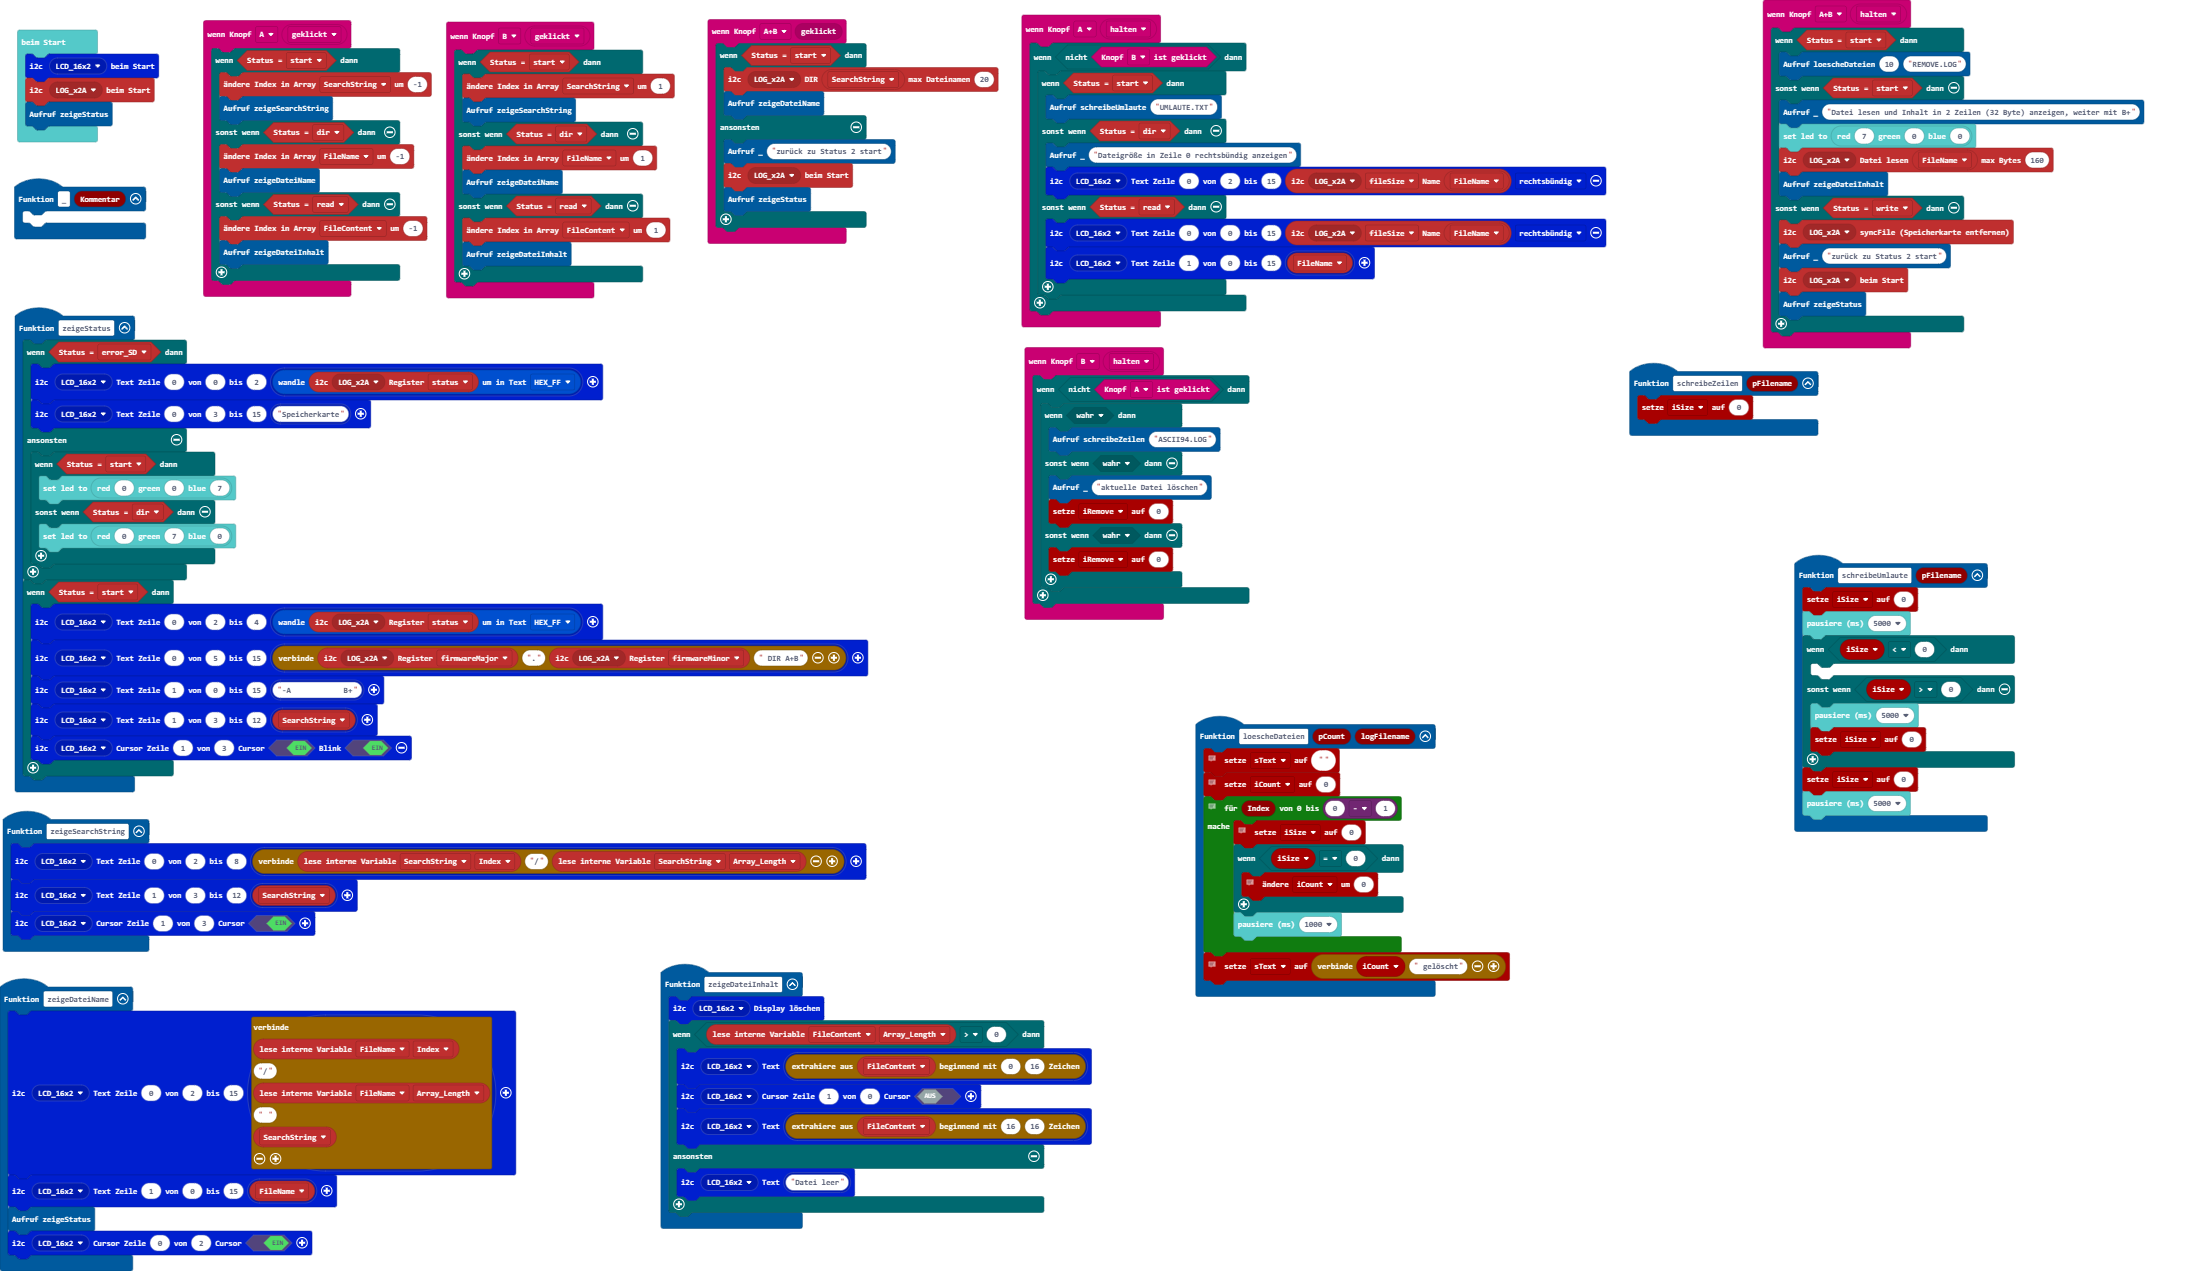
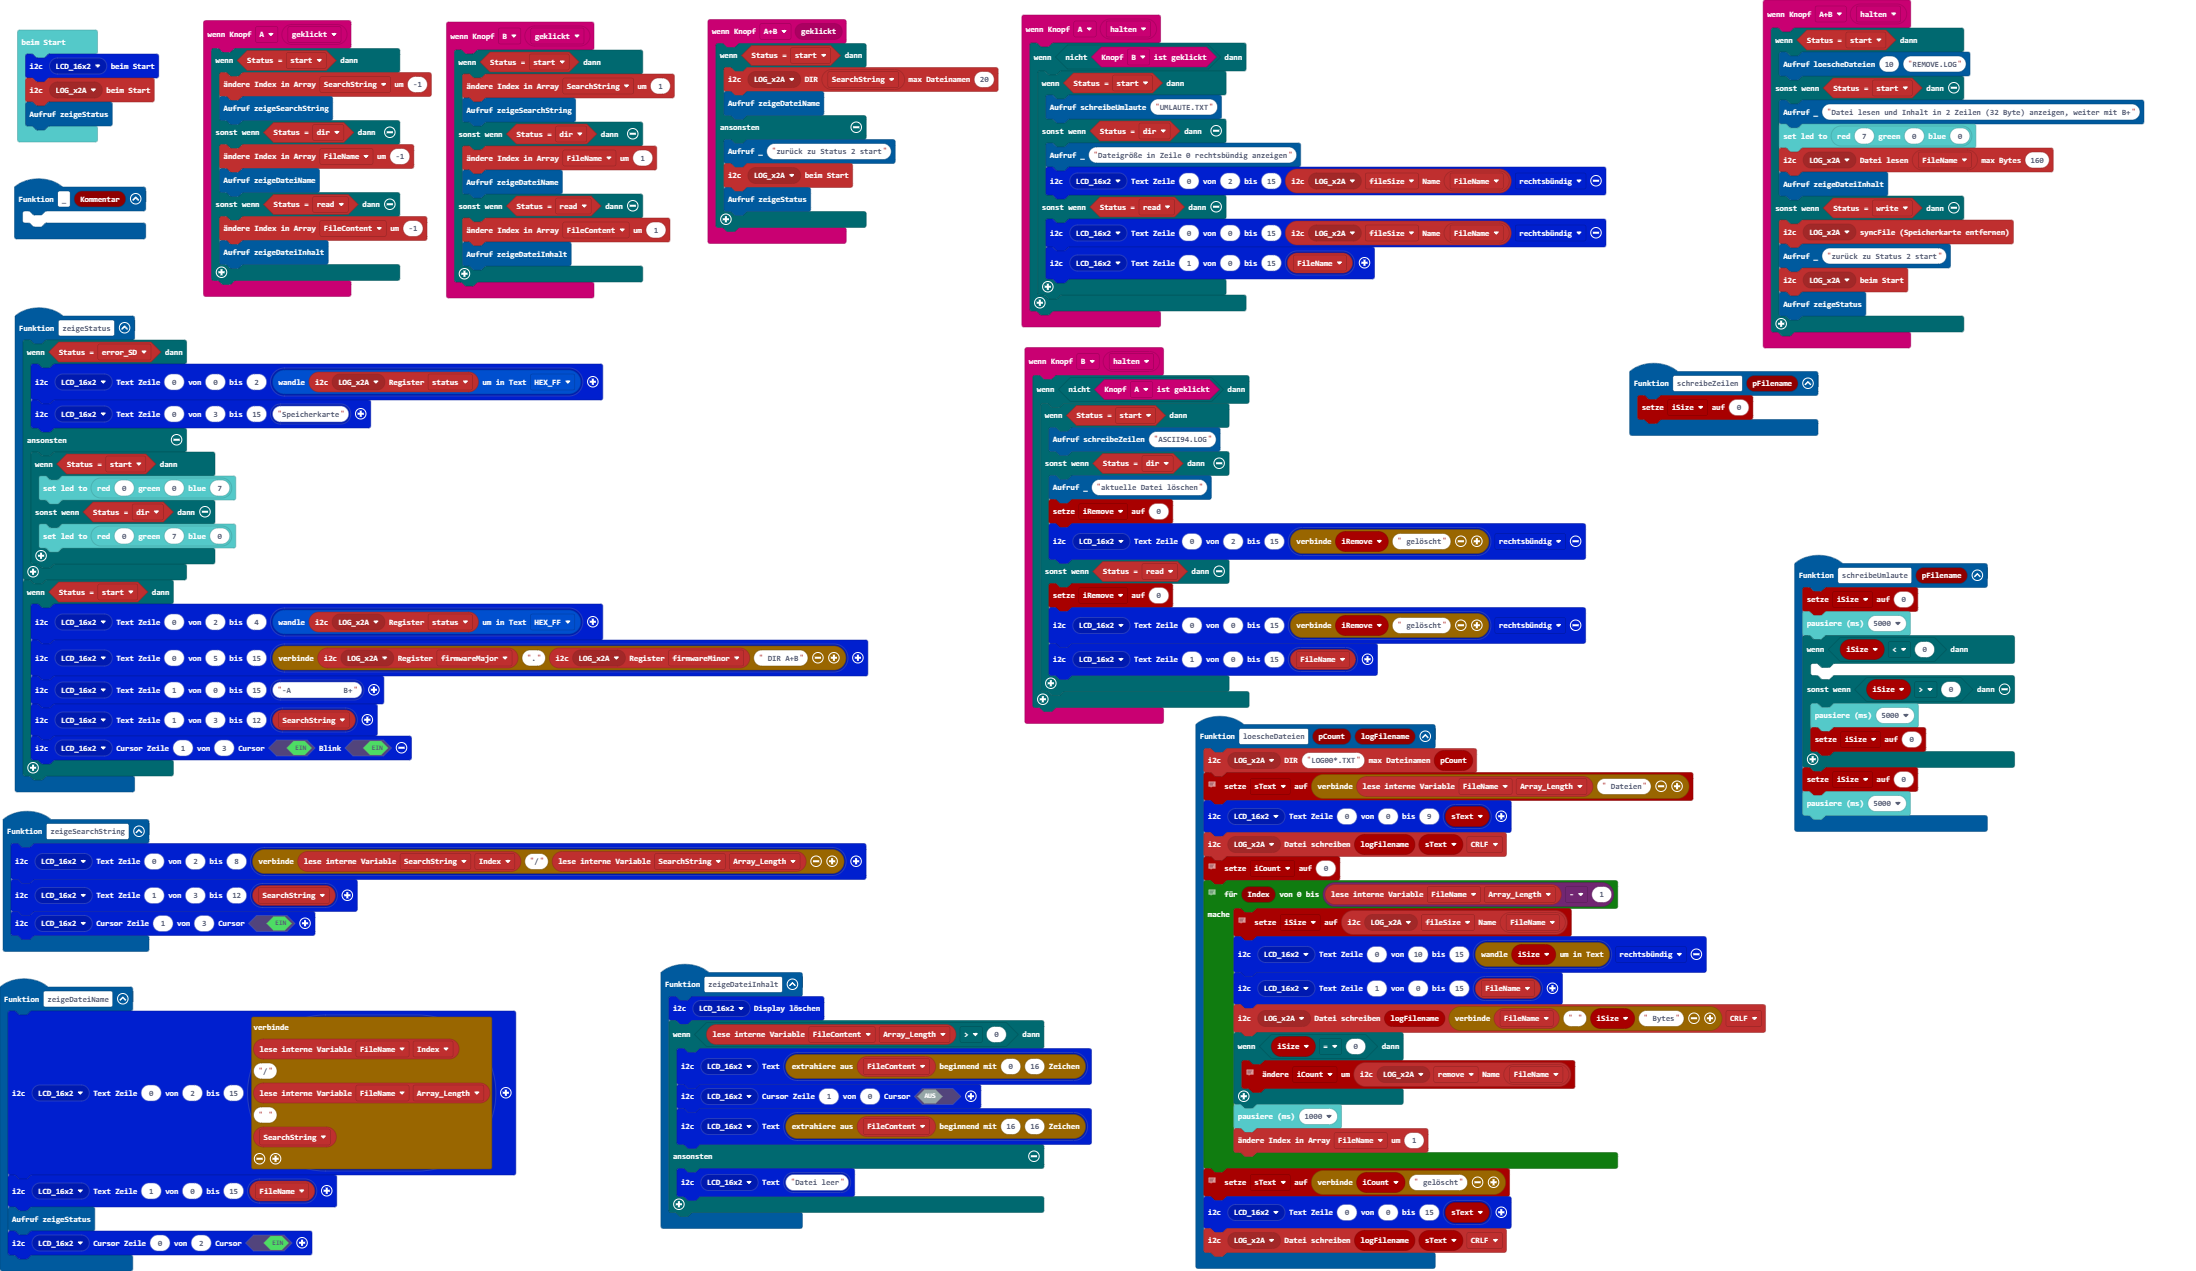
Aktualisiere main.blocks, main.ts

Changed region(s): [[0.4645, 0.3068, 0.8051, 1.0]]

diff --git a/main.ts b/main.ts
@@ -105,34 +105,46 @@ input.onButtonEvent(Button.A, ButtonEvent.Hold, function () {
 })
 input.onButtonEvent(Button.B, ButtonEvent.Hold, function () {
     if (!(input.buttonIsPressed(Button.A))) {
-        if (true) {
+        if (qwiicopenlog.isStatus(qwiicopenlog.eStatus.start)) {
             schreibeZeilen("ASCII94.LOG")
-        } else if (true) {
+        } else if (qwiicopenlog.isStatus(qwiicopenlog.eStatus.dir)) {
             _("aktuelle Datei löschen")
             iRemove = 0
-        } else if (true) {
+            lcd16x2rgb.writeText(lcd16x2rgb.lcd16x2_eADDR(lcd16x2rgb.eADDR_LCD.LCD_16x2), 0, 2, 15, lcd16x2rgb.lcd16x2_text("" + iRemove + " gelöscht"), lcd16x2rgb.eAlign.right)
+        } else if (qwiicopenlog.isStatus(qwiicopenlog.eStatus.read)) {
             iRemove = 0
+            lcd16x2rgb.writeText(lcd16x2rgb.lcd16x2_eADDR(lcd16x2rgb.eADDR_LCD.LCD_16x2), 0, 0, 15, lcd16x2rgb.lcd16x2_text("" + iRemove + " gelöscht"), lcd16x2rgb.eAlign.right)
+            lcd16x2rgb.writeText(lcd16x2rgb.lcd16x2_eADDR(lcd16x2rgb.eADDR_LCD.LCD_16x2), 1, 0, 15, lcd16x2rgb.lcd16x2_text(qwiicopenlog.getString(qwiicopenlog.eArray.FileName)))
         }
     }
 })
 function loescheDateien (pCount: number, logFilename: string) {
+    qwiicopenlog.listDirectory(qwiicopenlog.qwiicopenlog_eADDR(qwiicopenlog.eADDR.LOG_x2A), "LOG00*.TXT", pCount)
     // Länge des Arrays aFileName=Anzahl Dateinamen fürs Protokoll
-    sText = ""
+    sText = "" + qwiicopenlog.getInt(qwiicopenlog.eArray.FileName, qwiicopenlog.eInt.Array_Length) + " Dateien"
+    lcd16x2rgb.writeText(lcd16x2rgb.lcd16x2_eADDR(lcd16x2rgb.eADDR_LCD.LCD_16x2), 0, 0, 9, lcd16x2rgb.lcd16x2_text(sText))
+    qwiicopenlog.writeFile(qwiicopenlog.qwiicopenlog_eADDR(qwiicopenlog.eADDR.LOG_x2A), logFilename, sText, qwiicopenlog.eCRLF.CRLF)
     // Zähler für gelöschte Dateien
     iCount = 0
     // Schleife durch alle gefundenen Dateinamen, kann weniger als pCount sein
-    for (let Index = 0; Index <= 0 - 1; Index++) {
+    for (let Index = 0; Index <= qwiicopenlog.getInt(qwiicopenlog.eArray.FileName, qwiicopenlog.eInt.Array_Length) - 1; Index++) {
         // fragt Register 13 fileSize vom aktuellen Dateiname (Array aFileName(iFileName))
-        iSize = 0
+        iSize = qwiicopenlog.readInt32BE(qwiicopenlog.qwiicopenlog_eADDR(qwiicopenlog.eADDR.LOG_x2A), qwiicopenlog.eWriteStringReadInt32BE.fileSize, qwiicopenlog.getString(qwiicopenlog.eArray.FileName))
+        lcd16x2rgb.writeText(lcd16x2rgb.lcd16x2_eADDR(lcd16x2rgb.eADDR_LCD.LCD_16x2), 0, 10, 15, lcd16x2rgb.lcd16x2_text(convertToText(iSize)), lcd16x2rgb.eAlign.right)
+        lcd16x2rgb.writeText(lcd16x2rgb.lcd16x2_eADDR(lcd16x2rgb.eADDR_LCD.LCD_16x2), 1, 0, 15, lcd16x2rgb.lcd16x2_text(qwiicopenlog.getString(qwiicopenlog.eArray.FileName)))
+        qwiicopenlog.writeFile(qwiicopenlog.qwiicopenlog_eADDR(qwiicopenlog.eADDR.LOG_x2A), logFilename, "" + qwiicopenlog.getString(qwiicopenlog.eArray.FileName) + " " + iSize + " Bytes", qwiicopenlog.eCRLF.CRLF)
         if (iSize == 0) {
             // sendet aktuellen Dateiname an Register 15 remove
             // und bekommt Anzahl gelöschter Dateien zurück, 1 oder 0 wird zum Zähler addiert
-            iCount += 0
+            iCount += qwiicopenlog.readInt32BE(qwiicopenlog.qwiicopenlog_eADDR(qwiicopenlog.eADDR.LOG_x2A), qwiicopenlog.eWriteStringReadInt32BE.remove, qwiicopenlog.getString(qwiicopenlog.eArray.FileName))
         }
         basic.pause(1000)
+        qwiicopenlog.changeIndex(qwiicopenlog.eArray.FileName, 1)
     }
     // Anzahl gelöschter Dateien fürs Protokoll auf Display und in die Datei auf Speicherkarte
     sText = "" + iCount + " gelöscht"
+    lcd16x2rgb.writeText(lcd16x2rgb.lcd16x2_eADDR(lcd16x2rgb.eADDR_LCD.LCD_16x2), 0, 0, 15, lcd16x2rgb.lcd16x2_text(sText))
+    qwiicopenlog.writeFile(qwiicopenlog.qwiicopenlog_eADDR(qwiicopenlog.eADDR.LOG_x2A), logFilename, sText, qwiicopenlog.eCRLF.CRLF)
 }
 input.onButtonEvent(Button.AB, ButtonEvent.Hold, function () {
     if (qwiicopenlog.isStatus(qwiicopenlog.eStatus.start)) {
